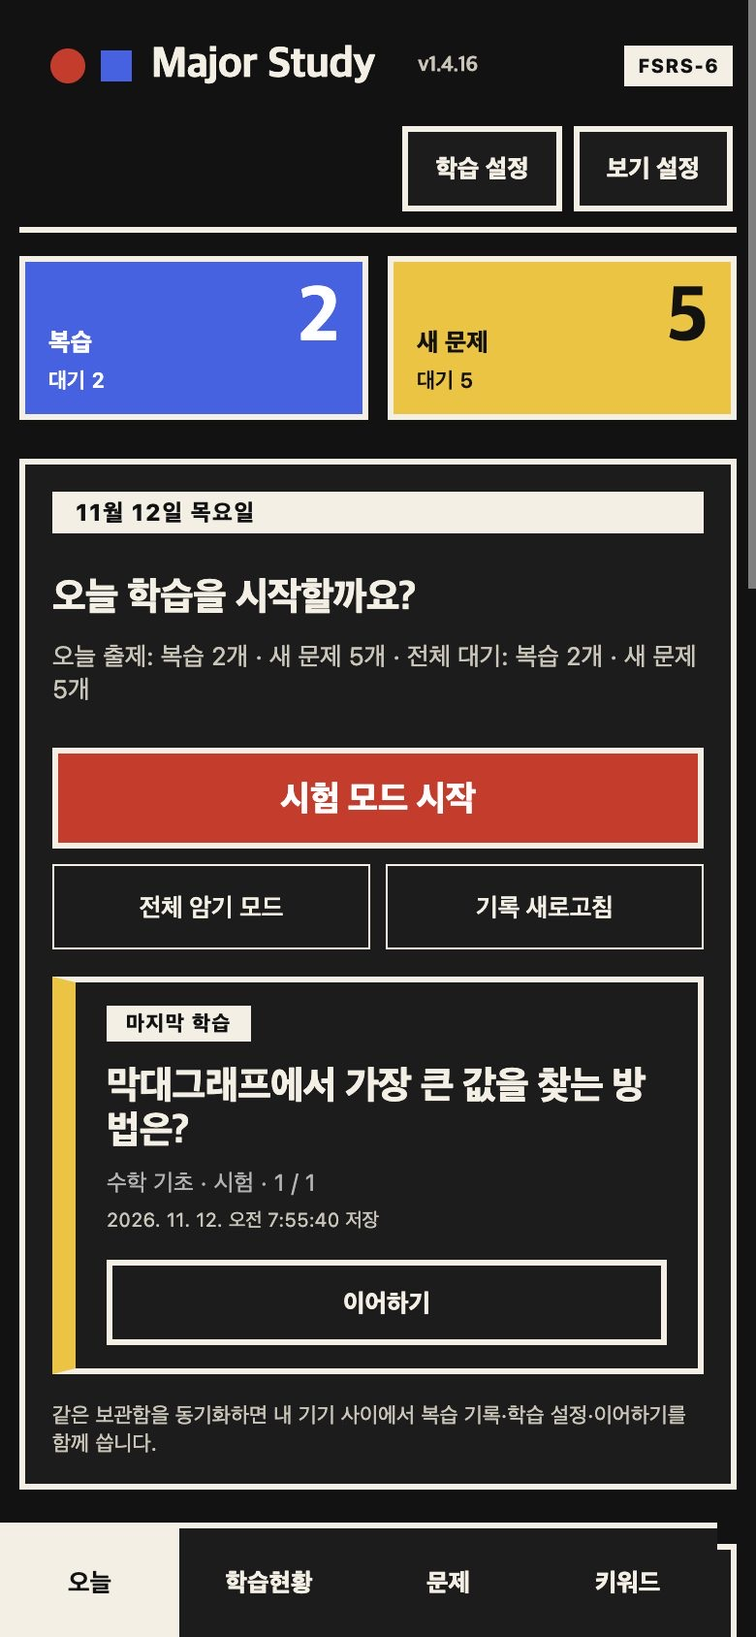
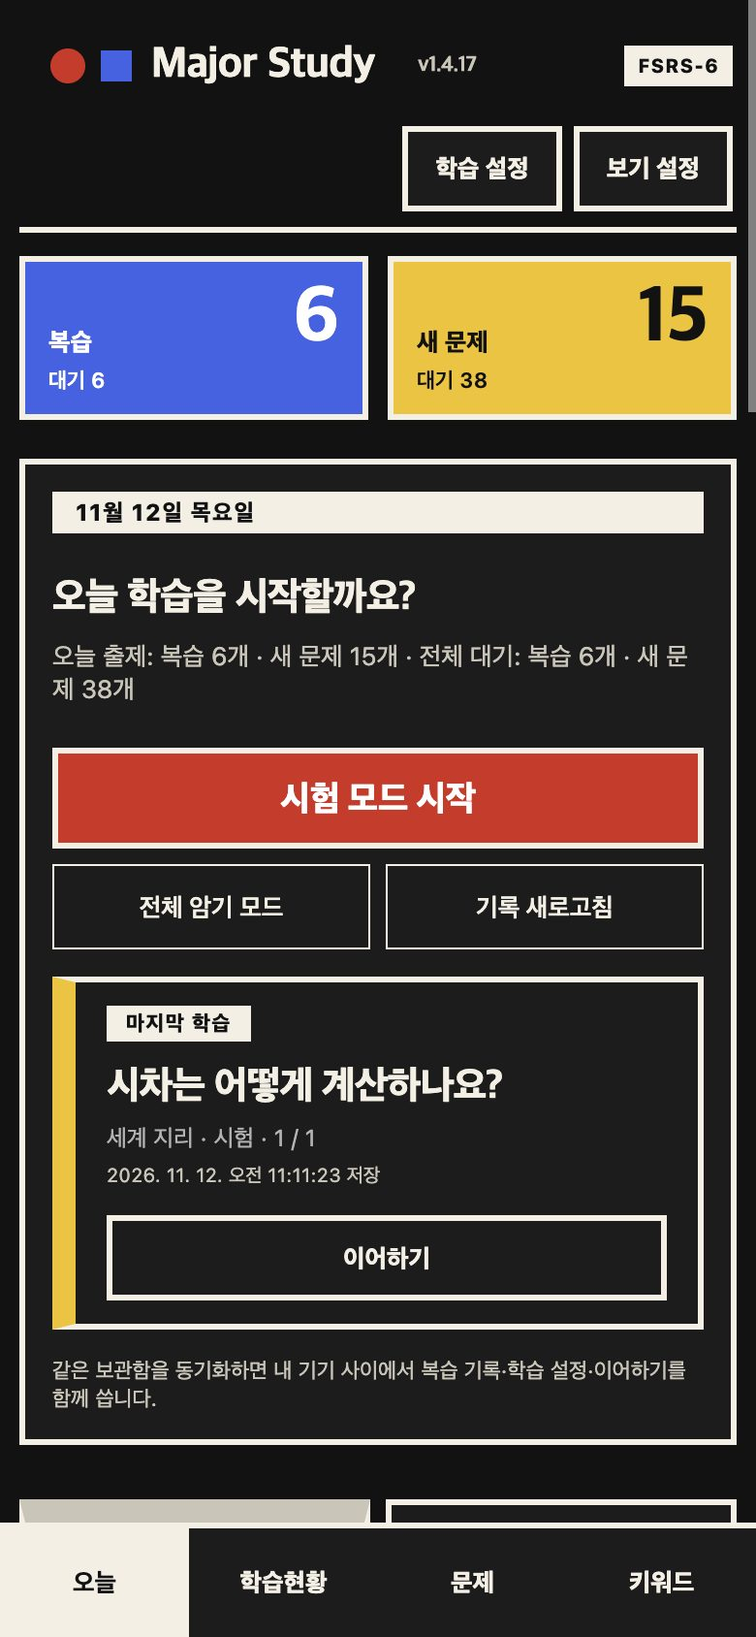
release: MIA Study 1.4.17
Phone layout fixes from a real-iPhone test: a compact study screen, a
full-width tab bar that applies only on phones, and safe-area padding for
the full-screen detail dialog. Homepage mobile screenshots and docs are
updated. main.js and styles.css change; storage format and algorithm are
unchanged.

diff --git a/docs/index.html b/docs/index.html
@@ -5,9 +5,9 @@
 <meta name="viewport" content="width=device-width,initial-scale=1">
 <meta name="color-scheme" content="light dark">
 <title>MIA Study · Obsidian 전공 공부 플러그인</title>
-<meta name="description" content="Obsidian 안에서 전공 질문을 모으고, 키워드로 연결하고, FSRS-6로 복습하는 플러그인. 정식 1.4.16 다운로드와 설치 안내.">
+<meta name="description" content="Obsidian 안에서 전공 질문을 모으고, 키워드로 연결하고, FSRS-6로 복습하는 플러그인. 정식 1.4.17 다운로드와 설치 안내.">
 <meta property="og:title" content="MIA Study · Obsidian 전공 공부 플러그인">
-<meta property="og:description" content="질문·키워드·FSRS-6 복습을 Obsidian 안에서. 정식 1.4.16.">
+<meta property="og:description" content="질문·키워드·FSRS-6 복습을 Obsidian 안에서. 정식 1.4.17.">
 <meta property="og:image" content="https://kimchi-kang.github.io/mia-study-obsidian/assets/screens/desktop-dashboard.jpg">
 <meta property="og:type" content="website">
 <link rel="preconnect" href="https://fonts.googleapis.com">
@@ -279,11 +279,11 @@ footer .fm .t{background:var(--yellow);clip-path:polygon(50% 0,100% 100%,0 100%)
   <div class="wrap">
     <div class="hero-grid">
       <div>
-        <span class="ver">정식 1.4.16</span>
+        <span class="ver">정식 1.4.17</span>
         <h1>질문을 모으고,<br><em>잊기 전에</em><br>다시 꺼낸다.</h1>
         <p class="lead">Obsidian 안에서 과목·질문·키워드를 폼으로 관리하고, FSRS-6로 복습 시점을 잡아 주는 공부 플러그인. Markdown을 직접 쓰지 않아도 되고, 문제마다 노트를 만들지도 않습니다. 1.4.13부터 플러그인 화면도 이 페이지와 같은 바우하우스 스타일(빨강·노랑·파랑, 두꺼운 테두리, 각진 모서리)입니다.</p>
         <div class="cta">
-          <a class="btn btn-red" href="https://github.com/kimchi-kang/mia-study-obsidian/releases/download/1.4.16/mia-study-1.4.16.zip" download>↓ 1.4.16 다운로드</a>
+          <a class="btn btn-red" href="https://github.com/kimchi-kang/mia-study-obsidian/releases/download/1.4.17/mia-study-1.4.17.zip" download>↓ 1.4.17 다운로드</a>
           <a class="btn btn-line" href="#install">BRAT 설치</a>
         </div>
         <p class="meta"><span>무료 · MIT</span><span>데스크톱·모바일</span><span>Obsidian 1.8.7+</span></p>
@@ -419,13 +419,13 @@ footer .fm .t{background:var(--yellow);clip-path:polygon(50% 0,100% 100%,0 100%)
       <div class="sh"><span class="shape sq-y" aria-hidden="true"></span><h2>모바일</h2><span class="num">03</span></div>
       <div class="mob">
         <div>
-          <p>좁은 화면에서는 탭이 한 줄로 줄고 평가 버튼이 2×2로 커집니다. Obsidian의 밝은·어두운 테마를 그대로 따르며, 두 테마 모두 같은 바우하우스 스타일입니다.</p>
+          <p>좁은 화면에서는 탭이 한 줄로 줄고 학습 화면 위쪽이 한 줄 막대로 줄고 평가 버튼이 한 줄로 놓입니다. Obsidian의 밝은·어두운 테마를 그대로 따르며, 두 테마 모두 같은 바우하우스 스타일입니다.</p>
           <p>키보드가 열리면 편집창과 검색·설정 화면이 키보드 위 높이에 맞춰지고, 선택한 입력칸이 보이도록 스크롤됩니다. 버튼은 44px 이상의 터치 영역을 씁니다. 화면 왼쪽 가장자리에서 쓸면 학습을 시작한 화면으로 돌아갑니다.</p>
           <p class="honest">데스크톱 Obsidian에서 휴대폰 폭(390px)으로 찍은 화면입니다. 실제 휴대폰 캡처가 아닙니다.</p>
         </div>
         <div class="phones">
           <figure class="phone"><img src="assets/screens/mobile-dashboard.jpg" width="780" height="1688" loading="lazy" alt="390픽셀 폭 어두운 테마의 오늘 화면. 파란 복습·노란 새 문제 타일, 시험 모드 시작 버튼, 이어하기 카드와 아래쪽 탭 바(오늘·학습현황·문제·키워드)가 보인다."></figure>
-          <figure class="phone"><img src="assets/screens/mobile-study.jpg" width="780" height="1688" loading="lazy" alt="390픽셀 폭 학습 화면. 수식이 렌더링된 모범 답안 아래에 빨강·노랑·흰색·파랑 평가 버튼 네 개가 2×2로 배치되어 있다."></figure>
+          <figure class="phone"><img src="assets/screens/mobile-study.jpg" width="780" height="1688" loading="lazy" alt="390픽셀 폭 학습 화면. 수식이 렌더링된 모범 답안 아래에 빨강·노랑·흰색·파랑 평가 버튼 네 개가 한 줄로 배치되어 있고, 위쪽은 한 줄 막대와 진행선이다."></figure>
         </div>
       </div>
     </div>
@@ -483,11 +483,11 @@ footer .fm .t{background:var(--yellow);clip-path:polygon(50% 0,100% 100%,0 100%)
         <h3>ZIP 직접 설치</h3>
         <ol>
           <li>보관함을 백업하고 Obsidian을 닫습니다.</li>
-          <li><a href="https://github.com/kimchi-kang/mia-study-obsidian/releases/download/1.4.16/mia-study-1.4.16.zip">ZIP</a>의 <code>main.js</code> <code>styles.css</code> <code>manifest.json</code> 세 파일을 아래 폴더에 복사합니다.<code class="blk">.obsidian/<wbr>plugins/<wbr>mia-study/</code></li>
+          <li><a href="https://github.com/kimchi-kang/mia-study-obsidian/releases/download/1.4.17/mia-study-1.4.17.zip">ZIP</a>의 <code>main.js</code> <code>styles.css</code> <code>manifest.json</code> 세 파일을 아래 폴더에 복사합니다.<code class="blk">.obsidian/<wbr>plugins/<wbr>mia-study/</code></li>
           <li><code>data.json</code>, <code>ui-state.json</code>은 그대로 둡니다. 학습 기록이 여기 있습니다.</li>
           <li>Obsidian을 다시 엽니다.</li>
         </ol>
-        <p class="links"><a href="https://github.com/kimchi-kang/mia-study-obsidian/releases/download/1.4.16/SHA256SUMS">SHA256SUMS</a> · <a href="https://github.com/kimchi-kang/mia-study-obsidian/blob/main/INSTALL.md">INSTALL.md</a></p>
+        <p class="links"><a href="https://github.com/kimchi-kang/mia-study-obsidian/releases/download/1.4.17/SHA256SUMS">SHA256SUMS</a> · <a href="https://github.com/kimchi-kang/mia-study-obsidian/blob/main/INSTALL.md">INSTALL.md</a></p>
       </div>
     </div>
   </div>
@@ -498,17 +498,17 @@ footer .fm .t{background:var(--yellow);clip-path:polygon(50% 0,100% 100%,0 100%)
     <div class="sh"><span class="shape c" aria-hidden="true"></span><h2>최신 업데이트</h2><span class="num">06</span></div>
     <div class="upd">
       <div class="l">
-        <div class="big">1.4.16</div>
+        <div class="big">1.4.17</div>
         <p>2026년 11월 12일</p>
-        <p><a href="https://github.com/kimchi-kang/mia-study-obsidian/releases/tag/1.4.16">릴리스 노트 →</a></p>
+        <p><a href="https://github.com/kimchi-kang/mia-study-obsidian/releases/tag/1.4.17">릴리스 노트 →</a></p>
       </div>
       <div class="r">
-        <h3>탭 4개로 줄인 새 화면 배치</h3>
+        <h3>컴팩트한 휴대폰 학습 화면</h3>
         <ul>
-          <li>탭은 오늘 · 학습현황 · 문제 · 키워드. 취약 문제는 오늘의 취약 띠와 문제의 "▲ 취약" 필터로 옮겼습니다.</li>
-          <li>문제 목록은 열을 맞추고, 넓은 화면에서는 오른쪽 상세 패널로 엽니다. 학습 화면은 큰 색 평가 버튼과 키 안내, 휴대폰은 하단 탭 바와 44px 터치 영역.</li>
+          <li>학습 화면의 머리글·설정·배너를 44px 막대 하나로 줄여 질문이 위쪽에서 시작하고, 평가 버튼은 한 줄입니다.</li>
+          <li>하단 탭 바는 전체 폭으로 고치고 휴대폰에서만 적용, 전체 화면 상세 창에는 안전 영역 여백을 넣었습니다.</li>
         </ul>
-        <p style="margin:0 0 12px"><a href="https://github.com/kimchi-kang/mia-study-obsidian/releases/tag/1.4.15">1.4.15</a>: 질문 상세 창의 초기화 확인과 버튼 정리.</p>
+        <p style="margin:0 0 12px"><a href="https://github.com/kimchi-kang/mia-study-obsidian/releases/tag/1.4.16">1.4.16</a>: 탭 4개로 줄인 새 화면 배치.</p>
         <a href="https://github.com/kimchi-kang/mia-study-obsidian/blob/main/docs/releases/HISTORY.md">전체 변경 이력 →</a>
       </div>
     </div>
@@ -519,7 +519,7 @@ footer .fm .t{background:var(--yellow);clip-path:polygon(50% 0,100% 100%,0 100%)
   <div class="wrap">
     <div class="sh"><span class="shape s" aria-hidden="true"></span><h2>검증</h2><span class="num">07</span></div>
     <div class="verify">
-      <div class="v"><span class="lab ok">통과</span><b>1,712개</b><p>1.4.16 자동 검사 실패·생략 0, 타입 검사·배포 빌드 통과.</p></div>
+      <div class="v"><span class="lab ok">통과</span><b>1,721개</b><p>1.4.17 자동 검사 실패·생략 0, 타입 검사·배포 빌드 통과.</p></div>
       <div class="v"><span class="lab ok">확인</span><b>데스크톱 앱</b><p>macOS Obsidian에서 모든 탭과 시험·암기, 평가·취소, 재시작을 확인했습니다.</p></div>
       <div class="v"><span class="lab no">미검증</span><b>휴대폰 실기기</b><p>iOS·Android 실기기, OS 키보드, 두 기기 실시간 동기화는 직접 확인하지 않았습니다.</p></div>
     </div>
@@ -545,7 +545,7 @@ footer .fm .t{background:var(--yellow);clip-path:polygon(50% 0,100% 100%,0 100%)
 <footer>
   <div class="wrap">
     <span class="fm" aria-hidden="true"><i class="c"></i><i class="s"></i><i class="t"></i></span>
-    <span>MIA Study 1.4.16 · <a href="https://github.com/kimchi-kang/mia-study-obsidian/blob/main/LICENSE">MIT</a> · 복습 일정: <a href="https://github.com/open-spaced-repetition/ts-fsrs">ts-fsrs</a>(FSRS-6)</span>
+    <span>MIA Study 1.4.17 · <a href="https://github.com/kimchi-kang/mia-study-obsidian/blob/main/LICENSE">MIT</a> · 복습 일정: <a href="https://github.com/open-spaced-repetition/ts-fsrs">ts-fsrs</a>(FSRS-6)</span>
     <span><a href="https://github.com/kimchi-kang/mia-study-obsidian">GitHub</a> · <a href="https://github.com/kimchi-kang/mia-study-obsidian/issues">문제 신고</a> · <a href="https://github.com/kimchi-kang/mia-study-obsidian/releases">릴리스</a></span>
   </div>
 </footer>

diff --git a/INSTALL.md b/INSTALL.md
@@ -4,7 +4,7 @@ Obsidian 1.8.7 이상을 대상으로 하며 데스크톱과 모바일을 지원
 
 ## 현재 정식 배포 · 2026-11-11
 
-정식 설치 버전은 **1.4.16**입니다. 화면 배치를 새로 짜서 탭이 `오늘`·`학습현황`·`문제`·`키워드` 4개가 되고(`취약 문제`는 `오늘`의 취약 띠와 `문제`의 `▲ 취약` 필터로 이동), 질문 목록에 오른쪽 상세 패널과 학습 화면의 큰 평가 버튼, 휴대폰 하단 탭 바를 넣었으며(저장 형식 변경 없음, `main.js`·`styles.css` 변경), 1.4.15의 질문 상세 창의 `학습 전으로 초기화`가 실행 전에 확인을 받고 상세 창 버튼 배치를 정리했으며(저장 형식 변경 없음, `main.js`·`styles.css` 변경), 1.4.14의 카드 버튼 정리와 과목 카드·학습현황 과목 카드·키워드 카드의 버튼과 숫자를 한눈에 보이도록 정리했고(버튼은 그대로, `styles.css`만 변경), 1.4.13의 바우하우스 스타일 새 디자인과 1.4.12의 동기화 충돌 복사본·부분 동기화 경고, 1.4.11의 고정 간격 기한일 수정을 포함합니다. 자동 검사와 격리 보관함의 데스크톱 Obsidian 화면으로 확인했으며 모바일 실기기에서는 확인하지 않았습니다. 수동 설치 시 같은 빌드의 세 배포 파일을 함께 사용하세요. [정식 다운로드](https://github.com/kimchi-kang/mia-study-obsidian/releases/tag/1.4.16) · [변경 내역](docs/releases/1.4.16.md) · [1.4.15 변경 내역](docs/releases/1.4.15.md) · [1.4.14 변경 내역](docs/releases/1.4.14.md) · [1.4.13 변경 내역](docs/releases/1.4.13.md) · [1.4.12 변경 내역](docs/releases/1.4.12.md) · [1.4.11 변경 내역](docs/releases/1.4.11.md) · [1.4.10 변경 내역](docs/releases/1.4.10.md) · [1.4.9 변경 내역](docs/releases/1.4.9.md) · [1.4.8 변경 내역](docs/releases/1.4.8.md) · [1.4.6 변경 내역](docs/releases/1.4.6.md) · [1.4.5 변경 내역](docs/releases/1.4.5.md) · [1.4.3 설치 검증과 복구](docs/qa/1.4.3-integration/README.md)
+정식 설치 버전은 **1.4.17**입니다. 휴대폰 화면을 손봐 학습 화면(암기·시험)의 머리글·설정·배너를 44px 막대 하나로 줄이고 평가 버튼을 한 줄로 놓았으며, 하단 탭 바를 전체 폭으로 고치고(휴대폰에서만 적용) 전체 화면 상세 창에 안전 영역 여백을 넣었습니다(레이아웃만 변경, 저장 형식 변경 없음, `main.js`·`styles.css` 변경). 1.4.16의 화면 배치를 새로 짜서 탭이 `오늘`·`학습현황`·`문제`·`키워드` 4개가 되고(`취약 문제`는 `오늘`의 취약 띠와 `문제`의 `▲ 취약` 필터로 이동), 질문 목록에 오른쪽 상세 패널과 학습 화면의 큰 평가 버튼, 휴대폰 하단 탭 바를 넣었으며(저장 형식 변경 없음, `main.js`·`styles.css` 변경), 1.4.15의 질문 상세 창의 `학습 전으로 초기화`가 실행 전에 확인을 받고 상세 창 버튼 배치를 정리했으며(저장 형식 변경 없음, `main.js`·`styles.css` 변경), 1.4.14의 카드 버튼 정리와 과목 카드·학습현황 과목 카드·키워드 카드의 버튼과 숫자를 한눈에 보이도록 정리했고(버튼은 그대로, `styles.css`만 변경), 1.4.13의 바우하우스 스타일 새 디자인과 1.4.12의 동기화 충돌 복사본·부분 동기화 경고, 1.4.11의 고정 간격 기한일 수정을 포함합니다. 자동 검사와 격리 보관함의 데스크톱 Obsidian 화면으로 확인했으며 모바일 실기기에서는 확인하지 않았습니다. 수동 설치 시 같은 빌드의 세 배포 파일을 함께 사용하세요. [정식 다운로드](https://github.com/kimchi-kang/mia-study-obsidian/releases/tag/1.4.17) · [변경 내역](docs/releases/1.4.17.md) · [1.4.16 변경 내역](docs/releases/1.4.16.md) · [1.4.15 변경 내역](docs/releases/1.4.15.md) · [1.4.14 변경 내역](docs/releases/1.4.14.md) · [1.4.13 변경 내역](docs/releases/1.4.13.md) · [1.4.12 변경 내역](docs/releases/1.4.12.md) · [1.4.11 변경 내역](docs/releases/1.4.11.md) · [1.4.10 변경 내역](docs/releases/1.4.10.md) · [1.4.9 변경 내역](docs/releases/1.4.9.md) · [1.4.8 변경 내역](docs/releases/1.4.8.md) · [1.4.6 변경 내역](docs/releases/1.4.6.md) · [1.4.5 변경 내역](docs/releases/1.4.5.md) · [1.4.3 설치 검증과 복구](docs/qa/1.4.3-integration/README.md)
 
 ## 처음 설치
 

diff --git a/STATUS.md b/STATUS.md
@@ -1,6 +1,8 @@
 # MIA Study 현재 작업·검증·배포 상태
 
-2026-11-12 KST. **현재 정식 배포는 1.4.16**입니다. 화면 배치를 새로 짰습니다(레이아웃만 변경, 저장 형식·알고리즘 변경 없음, `main.js`·`styles.css` 변경). 탭은 `오늘`·`학습현황`·`문제`·`키워드` 4개이고 `취약 문제`는 `오늘`의 취약 띠와 `문제`의 `▲ 취약` 필터로 옮겼습니다. 문제 목록에 오른쪽 상세 패널, 학습 화면에 큰 평가 버튼, 휴대폰에 하단 탭 바를 넣었습니다. 전체 1,712개(실패·생략 0), 타입 검사·빌드 통과. 예시 문제로 만든 격리 보관함에서 데스크톱 Obsidian의 밝은·어두운 테마를 여러 폭으로, 휴대폰 폭(390px)을 확인했습니다. **모바일 실기기와 두 기기 동기화는 미검증입니다(휴대폰 전체 화면 상세는 CSS 대용으로만 확인).** [정식 릴리스](https://github.com/kimchi-kang/mia-study-obsidian/releases/tag/1.4.16) · [변경 내역](docs/releases/1.4.16.md) · [1.4.16 SHA256SUMS](https://github.com/kimchi-kang/mia-study-obsidian/releases/download/1.4.16/SHA256SUMS)
+2026-11-12 KST. **현재 정식 배포는 1.4.17**입니다. 실제 아이폰 사용 결과를 반영한 휴대폰 레이아웃 수정입니다(저장 형식·알고리즘 변경 없음, `main.js`·`styles.css` 변경). 학습 화면(암기·시험)의 머리글·설정 줄·배너·진행 상자를 44px 막대 하나와 4px 진행선으로 줄였고 평가 버튼은 한 줄입니다. 하단 탭 바는 전체 폭이며 휴대폰에서만 적용됩니다. 전체 화면 상세 창에는 위·아래·좌·우 안전 영역 여백을 넣었습니다. 전체 1,721개(실패·생략 0), 타입 검사·빌드 통과. 예시 문제로 만든 격리 보관함에서 휴대폰 크기와 안전 영역 여백을 흉내 내 확인했으며 **모바일 실기기와 두 기기 동기화는 미검증입니다.** [정식 릴리스](https://github.com/kimchi-kang/mia-study-obsidian/releases/tag/1.4.17) · [변경 내역](docs/releases/1.4.17.md) · [1.4.17 SHA256SUMS](https://github.com/kimchi-kang/mia-study-obsidian/releases/download/1.4.17/SHA256SUMS)
+
+2026-11-12 KST. **당시 정식 배포 1.4.16**입니다. 화면 배치를 새로 짰습니다(레이아웃만 변경, 저장 형식·알고리즘 변경 없음, `main.js`·`styles.css` 변경). 탭은 `오늘`·`학습현황`·`문제`·`키워드` 4개이고 `취약 문제`는 `오늘`의 취약 띠와 `문제`의 `▲ 취약` 필터로 옮겼습니다. 문제 목록에 오른쪽 상세 패널, 학습 화면에 큰 평가 버튼, 휴대폰에 하단 탭 바를 넣었습니다. 전체 1,712개(실패·생략 0), 타입 검사·빌드 통과. 예시 문제로 만든 격리 보관함에서 데스크톱 Obsidian의 밝은·어두운 테마를 여러 폭으로, 휴대폰 폭(390px)을 확인했습니다. **모바일 실기기와 두 기기 동기화는 미검증입니다(휴대폰 전체 화면 상세는 CSS 대용으로만 확인).** [정식 릴리스](https://github.com/kimchi-kang/mia-study-obsidian/releases/tag/1.4.16) · [변경 내역](docs/releases/1.4.16.md) · [1.4.16 SHA256SUMS](https://github.com/kimchi-kang/mia-study-obsidian/releases/download/1.4.16/SHA256SUMS)
 
 2026-11-11 KST. **당시 정식 배포 1.4.15**입니다. 질문 상세 창의 `학습 전으로 초기화`가 실행 전에 확인 창(기록 수 표시, 되돌릴 수 없음 안내, 취소/초기화)을 띄우고, 상세 창 버튼을 정리했습니다(저장 형식·알고리즘 변경 없음, `main.js`·`styles.css` 변경). 전체 1,686개(실패·생략 0), 타입 검사·빌드 통과. 예시 문제로 만든 격리 보관함에서 데스크톱 Obsidian의 밝은·어두운 테마와 휴대폰 폭(390px)을 확인했습니다. **모바일 실기기와 두 기기 동기화는 미검증입니다.** [정식 릴리스](https://github.com/kimchi-kang/mia-study-obsidian/releases/tag/1.4.15) · [변경 내역](docs/releases/1.4.15.md) · [1.4.15 SHA256SUMS](https://github.com/kimchi-kang/mia-study-obsidian/releases/download/1.4.15/SHA256SUMS)
 

diff --git a/docs/releases/1.4.17.md b/docs/releases/1.4.17.md
@@ -1,0 +1,14 @@
+# MIA Study 1.4.17
+
+2026-11-12 정식 배포
+
+**실제 아이폰으로 써 본 결과를 반영해 휴대폰 화면을 손봤습니다. 학습 화면이 훨씬 컴팩트해졌고, 하단 탭 바와 전체 화면 상세 창의 여백을 바로잡았습니다. 저장 방식과 학습 알고리즘은 바뀌지 않았습니다.**
+
+- **휴대폰 학습 화면(암기·시험).** 높은 머리글, 설정 줄, 모드 배너, 빈 진행 상자를 44px 막대 하나로 합쳤습니다. `학습 나가기` · 모드 · `n/전체` · `학습 설정` · `보기 설정`이 한 줄에 있고 현재 위치는 항상 보입니다. 과목은 카드 안으로 옮겼습니다. 진행은 4px 선으로 보여 줍니다. `편집`은 카드 모서리에 고정했고, 모범 답안 상자는 노란 왼쪽 선과 같은 줄의 `모범 답안` 라벨을 쓰는 납작한 형태이며 줄 간격은 1.6입니다. 평가 버튼은 네 개가 한 줄(높이 56px)에 간격과 함께 놓입니다. 밀어서 이동 안내는 `조작 안내`에 이미 있어 숨겼습니다. 390×624(아이폰에서 Obsidian 자체 막대를 뺀 높이)에서 질문이 413px이 아니라 100px에서 시작하고, 128자 답안이 모두 보입니다. 약 200자까지 들어가며 더 긴 답안은 카드 안에서 스크롤됩니다. 버튼은 하나도 없애지 않았습니다.
+- **하단 탭 바.** 최대 폭 제한 때문에 왼쪽으로 치우치고 오른쪽이 비던 문제를 고쳤습니다. 320–640px과 가로 방향에서 전체 폭을 쓰고, 홈 표시줄 안전 영역을 비웁니다. 휴대폰(`data-device="phone"`)에서만 적용되며 좁은 데스크톱 창은 위쪽 탭을 그대로 씁니다.
+- **휴대폰 전체 화면 상세 창.** 위·아래·좌·우 안전 영역 여백을 넣어 시계와 다이내믹 아일랜드를 가리지 않습니다. 빨간 `학습 전으로 초기화`는 따로 한 줄에 전부 보입니다. `dvh`를 지원하지 않는 환경을 위해 `100vh` 대체값을 넣었습니다.
+- **그 밖에.** 집중 모드에서 아래 여백이 두 번 잡히던 것을 고쳤고, 휴대폰 규칙이 가로 방향(높이 500px 이하, 터치 입력)에도 적용됩니다. 화면 낭독기의 읽는 순서가 보이는 순서와 같아졌습니다.
+
+`main.js`와 `styles.css`가 바뀌었고 저장 형식과 학습 알고리즘은 바뀌지 않았습니다. 전체 자동 검사 1,721개(실패·생략 0)와 타입 검사·빌드를 통과했습니다. 예시 문제로 만든 격리 보관함에서 휴대폰 크기와 안전 영역 여백을 흉내 내 확인했습니다. 모바일 실기기에서는 따로 확인하지 않았습니다. [설치와 복구](https://github.com/kimchi-kang/mia-study-obsidian/blob/main/INSTALL.md)
+
+수동 업데이트는 기존 파일을 백업한 뒤 ZIP의 `main.js`, `styles.css`, `manifest.json`을 함께 교체하세요. 기존 학습 기록·설정·이어하기는 보관함에 유지합니다. 최소 Obsidian 버전은 1.8.7입니다.

diff --git a/README.md b/README.md
@@ -10,7 +10,7 @@
 ![Platforms](https://img.shields.io/badge/desktop%20%C2%B7%20mobile-supported-2f9e5b)
 [![License](https://img.shields.io/github/license/kimchi-kang/mia-study-obsidian?color=555)](LICENSE)
 
-[**소개 페이지**](https://kimchi-kang.github.io/mia-study-obsidian/) · [**1.4.16 다운로드**](https://github.com/kimchi-kang/mia-study-obsidian/releases/download/1.4.16/mia-study-1.4.16.zip) · [변경 내역](docs/releases/1.4.16.md) · [현재 상태](STATUS.md)
+[**소개 페이지**](https://kimchi-kang.github.io/mia-study-obsidian/) · [**1.4.17 다운로드**](https://github.com/kimchi-kang/mia-study-obsidian/releases/download/1.4.17/mia-study-1.4.17.zip) · [변경 내역](docs/releases/1.4.17.md) · [현재 상태](STATUS.md)
 
 <img src="docs/assets/screens/desktop-dashboard.jpg" alt="MIA Study 오늘 화면. 바우하우스 디자인의 복습·새 문제 블록, 시작 패널, 취약 문제 띠와 과목별 학습 카드" width="860">
 
@@ -26,7 +26,7 @@ Obsidian 안에서 과목·질문·키워드를 폼으로 관리하면서 FSRS-6
 
 화면은 1.4.13 바우하우스 디자인(빨강·노랑·파랑, 두꺼운 테두리, 각진 모서리)과 직접 만든 일반 상식 데모 보관함(수학 기초·세계 지리·요리 과학)으로 찍었습니다. 수식·이미지·표·코드 렌더링을 보여 주는 예시 질문이며 실제 학습 내용이 아닙니다. 모바일 화면은 데스크톱 Obsidian에서 휴대폰 폭을 흉내 낸 것입니다.
 
-[1.4.16 정식 릴리스](https://github.com/kimchi-kang/mia-study-obsidian/releases/tag/1.4.16) · [다운로드·설치 안내](https://kimchi-kang.github.io/mia-study-obsidian/) · [현재 상태](STATUS.md) · [1.4.16 변경 내역](docs/releases/1.4.16.md) · [이전 버전 이력](docs/releases/HISTORY.md)
+[1.4.17 정식 릴리스](https://github.com/kimchi-kang/mia-study-obsidian/releases/tag/1.4.17) · [다운로드·설치 안내](https://kimchi-kang.github.io/mia-study-obsidian/) · [현재 상태](STATUS.md) · [1.4.17 변경 내역](docs/releases/1.4.17.md) · [이전 버전 이력](docs/releases/HISTORY.md)
 
 Major Study 제목 바로 옆에서 현재 실행 중인 버전을 확인할 수 있습니다. 업데이트한 파일을 로드하려면 Obsidian을 다시 시작하세요. 수식은 원문에 `$...$` 또는 `$$...$$` 구분자와 TeX 문법이 있어야 표시됩니다. 예를 들어 `y(t) = A(1 - e^(-t/k))` 같은 일반 문장은 자동으로 수식으로 바뀌지 않습니다.
 
